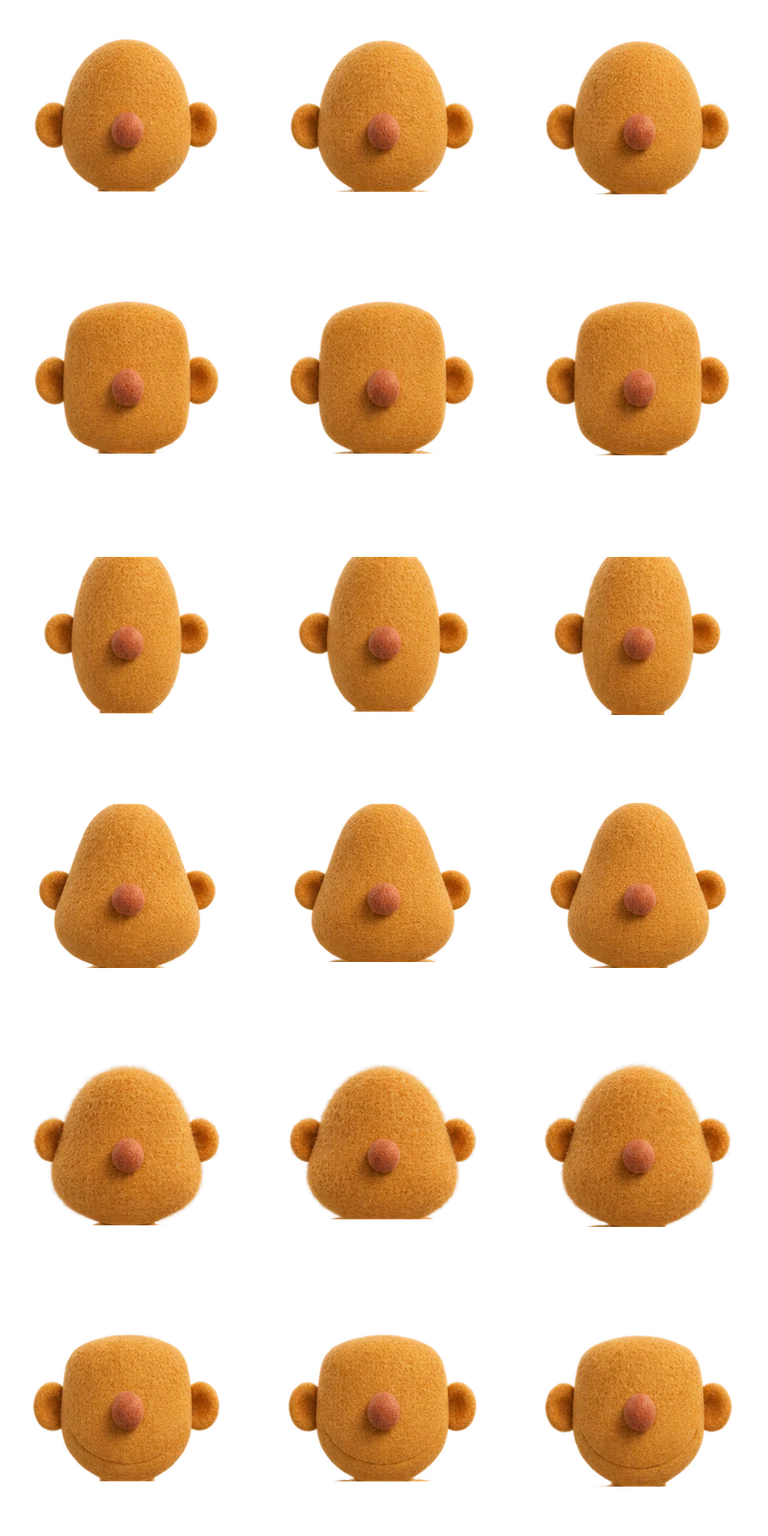
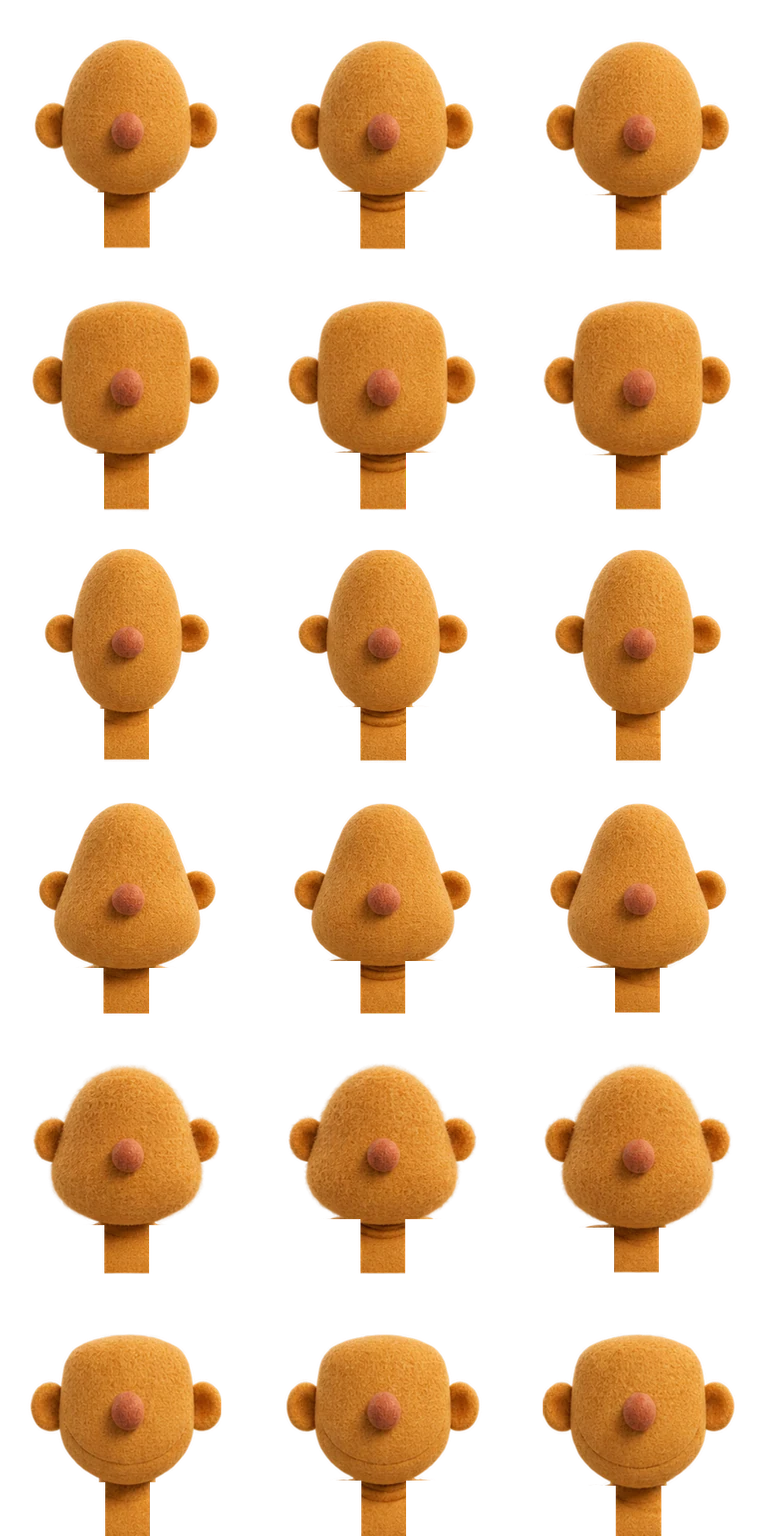
Update Site source
Source-commit: 9b7a39b4af785da76e8b80814e762c74722bc631
Source-author-date: 2026-10-15T22:21:36+03:00

diff --git a/app/components/Avatar.tsx b/app/components/Avatar.tsx
@@ -11,9 +11,9 @@ export default function Avatar({value,className='',label,animated=true,emotion}:
  const a=cleanAvatar(value),id=useId();const noseId='nose-'+id.replace(/[^a-zA-Z0-9_-]/g,'');const tick=useSyncExternalStore(animated?subscribe:noSubscribe,animated?read:zero,zero);const seed=Array.from(id).reduce((sum,c)=>sum+c.charCodeAt(0),a.shape*11+a.hair*7);const expression=emotion||'idle';const frame=puppetPose(a.eyes,a.mouth,expression,tick,seed,animated&&tick>0);const color=feltColor(a.color);
  // All layers use the SAME square viewBox, including narrow workshop thumbnails.
  // Cropping each cell before positioning avoids background sizing / span height drift.
- const layer=(name:string,col:number,row:number,columns:number,rows:number,tint=false)=><svg key={name} className={'puppet-layer puppet-'+name} aria-hidden="true" x="0" y="0" width="256" height="256" viewBox={`${col*256} ${row*256} 256 256`} overflow="hidden" style={tint?{filter:color}:undefined}><image href={`/puppets/${name==='hair'||name==='accessory'||name==='outfit'?'parts':name==='nose'?'body':name}.webp?v=3`} x="0" y="0" width={columns*256} height={rows*256}/></svg>;
+ const layer=(name:string,col:number,row:number,columns:number,rows:number,tint=false)=><svg key={name} className={'puppet-layer puppet-'+name} aria-hidden="true" x="0" y={name==='outfit'?26:0} width="256" height="256" viewBox={`${col*256} ${row*256} 256 256`} overflow="hidden" style={tint?{filter:color}:undefined}><image href={`/puppets/${name==='hair'||name==='accessory'||name==='outfit'?'parts':name==='nose'?'body':name}.webp?v=4`} x="0" y="0" width={columns*256} height={rows*256}/></svg>;
  return <svg xmlns="http://www.w3.org/2000/svg" viewBox="0 0 256 256" width="256" height="256" preserveAspectRatio="xMidYMid meet" className={'cartoon-avatar felt-avatar '+className} role={label?'img':undefined} aria-label={label?(label+(EXPRESSION_LABELS[expression]?' — '+EXPRESSION_LABELS[expression]:'')):undefined} aria-hidden={label?undefined:true} data-puppet="felt" data-expression={expression} data-frames={`${frame.body},${frame.eyes},${frame.mouth}`}>
  <defs><clipPath id={noseId}><ellipse cx="128" cy="128" rx="20" ry="20"/></clipPath></defs>
- {layer('outfit',a.outfit,2,7,3)}{layer('body',frame.body,a.shape,3,6,true)}{layer('eyes',frame.eyes,frame.eyesRow,4,6,true)}{layer('mouth',frame.mouth,frame.mouthRow,4,6,true)}<g clipPath={`url(#${noseId})`}>{layer('nose',frame.body,a.shape,3,6,true)}</g>{a.hair>0&&layer('hair',a.hair,0,7,3)}{a.accessory>0&&layer('accessory',a.accessory,1,7,3)}
+ {layer('body',frame.body,a.shape,3,6,true)}{layer('outfit',a.outfit,2,7,3)}{layer('eyes',frame.eyes,frame.eyesRow,4,6,true)}{layer('mouth',frame.mouth,frame.mouthRow,4,6,true)}<g clipPath={`url(#${noseId})`}>{layer('nose',frame.body,a.shape,3,6,true)}</g>{a.hair>0&&layer('hair',a.hair,0,7,3)}{a.accessory>0&&layer('accessory',a.accessory,1,7,3)}
  </svg>;
 }

diff --git a/app/layout.tsx b/app/layout.tsx
@@ -2,4 +2,4 @@ import type { Metadata } from 'next';
 import './globals.css';
 import './puppet.css';
 export const metadata:Metadata={title:'Sans voyelles — Les mots ont disparu. À vous de jouer.',description:'20 secondes, des consonnes et un déclic. Un jeu de culture générale multijoueur.'};
-export default function Layout({children}:{children:React.ReactNode}){return <html lang="fr"><head>{["body","parts","eyes","mouth"].map(name=><link key={name} rel="preload" as="image" href={"/puppets/"+name+".webp?v=3"}/>)}</head><body>{children}</body></html>}
+export default function Layout({children}:{children:React.ReactNode}){return <html lang="fr"><head>{["body","parts","eyes","mouth"].map(name=><link key={name} rel="preload" as="image" href={"/puppets/"+name+".webp?v=4"}/>)}</head><body>{children}</body></html>}

diff --git a/data/PUPPET_ASSETS.md b/data/PUPPET_ASSETS.md
@@ -21,7 +21,7 @@ Les illustrations de réponse occupent un cadre à hauteur bornée dans une gril
 
 ## Recalage des pièces
 
-Les zones source des trois rangées de pièces sont mesurées séparément : les dessins générés débordaient d’une division mathématique en tiers. Les petits fragments provenant d’un élément voisin sont retirés avant la mesure. Chaque silhouette et pose partage désormais un ancrage du nez à (128, 128) ; la jonction du cou est repérée avant de séparer la tête du buste. Les vêtements sont placés derrière la tête et le nez repasse devant les yeux. Les rangées du créateur réservent toutes sept cases et les vignettes gardent un canevas carré. Un test vérifie l’ancrage des dix-huit poses.
+Les zones source des trois rangées de pièces sont mesurées séparément : les dessins générés débordaient d’une division mathématique en tiers. Les petits fragments provenant d’un élément voisin sont retirés avant la mesure. Chaque silhouette et pose partage désormais un ancrage du nez à (128, 128) ; le cou est conservé intégralement au lieu de couper la tête à la ligne la plus étroite. Le buste d’origine conserve son cou et son ombre de menton. Les vêtements sont placés devant ce buste, avec le col à sa hauteur anatomique ; le nez repasse devant les yeux. Les rangées du créateur réservent toutes sept cases et les vignettes gardent un canevas carré. Un test vérifie l’ancrage des dix-huit poses.
 
 
 ## Reprise du 15 octobre — expressions et cadrage
@@ -29,3 +29,8 @@ Les zones source des trois rangées de pièces sont mesurées séparément : les
 Le rang de découverte `solveRank` est attribué côté serveur avec un compteur par manche, dans la même mise à jour atomique que les points. Les réponses simultanées ne produisent qu’un seul premier. Le départ d’un joueur ne change pas le rang des suivants. Le compteur est remis à zéro à la manche suivante. La couronne du match précédent ne déclenche pas l’expression de victoire pendant un nouveau match.
 
 Les sons d’émotes utilisent des enveloppes courtes, glissandos élastiques, filtres de formants et percussions douces avec compression de sortie. Ils restent soumis au bouton haut-parleur. Les nœuds audio sont déconnectés après lecture.
+
+
+## Correction du raccord du col
+
+Le découpage conserve le cou dessiné dans les sprites d’origine et écarte les épaules nues pour laisser la place aux vêtements. Le vêtement passe au premier plan, 26 unités plus bas dans le canevas commun, afin de laisser visible le cou sous le menton. Les rangées source de silhouettes sont mesurées individuellement : leur hauteur réelle n’était pas uniforme, ce qui rognait le sommet du visage ovale. Le test d’atlas vérifie la présence du cou pour les 18 poses ; 36 combinaisons visage / vêtement sont contrôlées dans les rendus du composant. Les illustrations et les expressions de réussite de la version précédente sont conservées.
